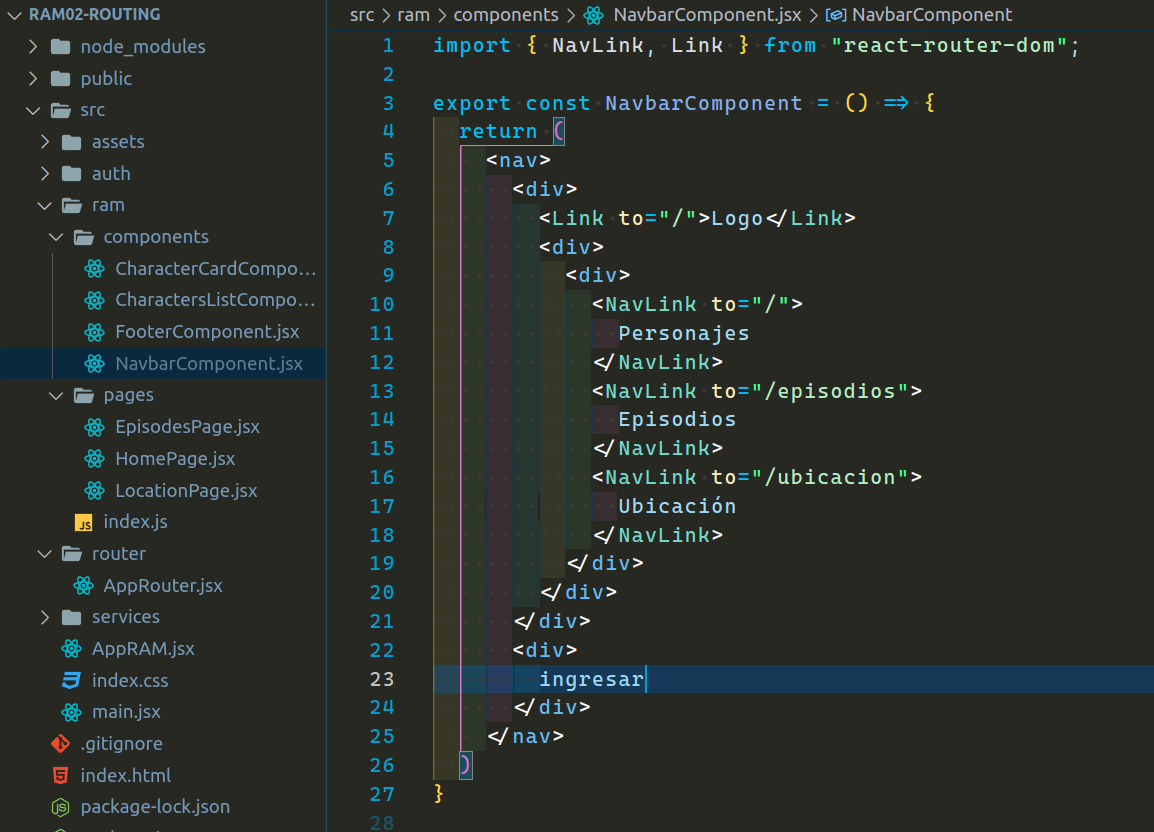
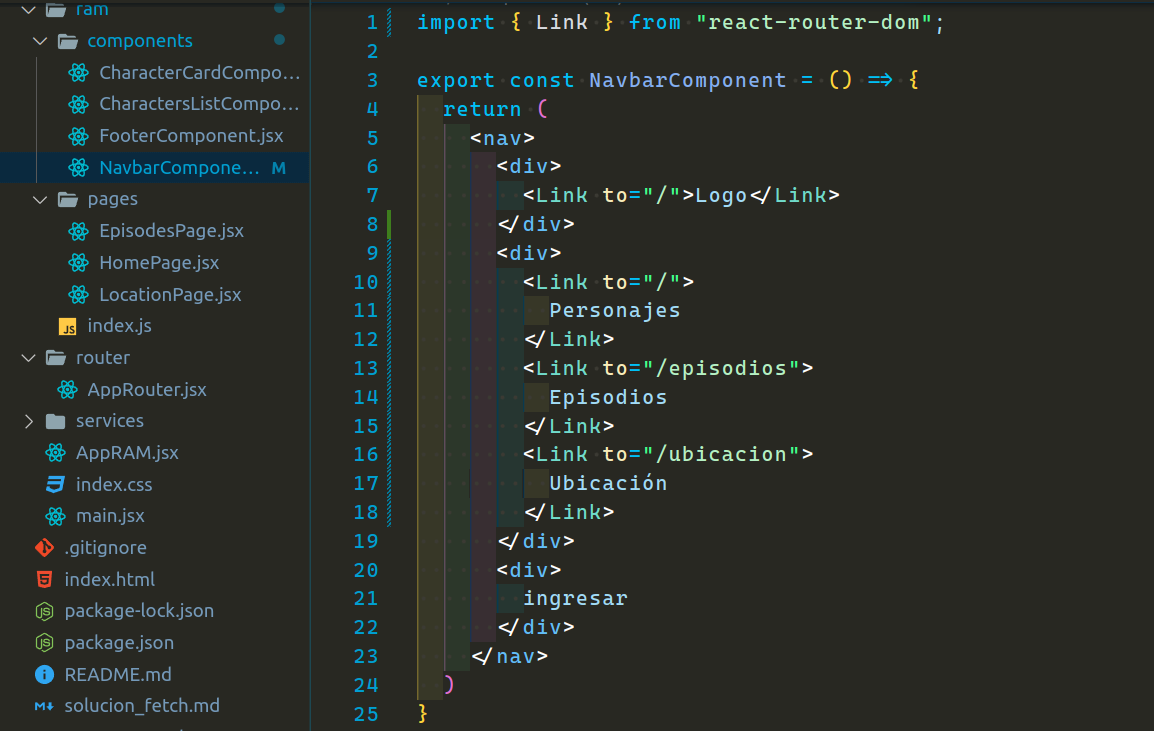
fixes

diff --git a/src/ram/components/NavbarComponent.jsx b/src/ram/components/NavbarComponent.jsx
@@ -1,27 +1,38 @@
-import { NavLink, Link } from "react-router-dom";
+import { Link, useLocation } from "react-router-dom";
 
 export const NavbarComponent = () => {
+  const location = useLocation();
+
   return (
     <nav>
       <div>
-        <Link to="/">Logo</Link>
-        <div>
-          <div>
-            <NavLink to="/">
-              Personajes
-            </NavLink>
-            <NavLink to="/episodios">
-              Episodios
-            </NavLink>
-            <NavLink to="/ubicacion">
-              Ubicación
-            </NavLink>
-          </div>
-        </div>
+        <Link to="/">
+          Logo
+        </Link>
+      </div>
+      <div>
+        <Link
+          to="/"
+          className={location.pathname === "/" ? "active" : ""}
+        >
+          Personajes
+        </Link>
+        <Link
+          to="/episodios"
+          className={location.pathname === "/episodios" ? "active" : ""}
+        >
+          Episodios
+        </Link>
+        <Link
+          to="/ubicacion"
+          className={location.pathname === "/ubicacion" ? "active" : ""}
+        >
+          Ubicación
+        </Link>
       </div>
       <div>
         ingresar
       </div>
     </nav>
-  )
-}
+  );
+};

diff --git a/src/index.css b/src/index.css
@@ -56,6 +56,11 @@ button:focus-visible {
   outline: 4px auto -webkit-focus-ring-color;
 }
 
+.active {
+  font-weight: bold;
+  color: red;
+}
+
 @media (prefers-color-scheme: light) {
   :root {
     color: #213547;

diff --git a/TUTORIAL.md b/TUTORIAL.md
@@ -128,29 +128,81 @@ Lo mismo pasaría con `http://localhost:3000/ubicacion`.
 
 ---
 
-# `NavLink & Link`
+# `Link`
 
 <a id="item4"></a>
 
-Como vimos anteriormente podíamos escribir un `URL` y navegar a algunas de tus rutas, esto no es muy perfomante. La idea es que podamos combinar nuestros componentes con estas rutas, es decir, que nosotros al hacer un clic en un componente, nos lleve hacia una ruta específica, como por ejemplo los items de nuestro navbar.
+Ya funcionando nuestras rutas ahora podríamos crear enlaces que al hacer un clic nos lleve a una ruta específica.
 
-Primero vamos a conocer dos métodos que nos trae `react-router-dom`. Estos son Link y NavLink.
+Primero vamos a conocer un método que nos trae `react-router-dom`. Este es el método Link, el cuál se utiliza para crear enlaces a diferentes rutas dentro de una aplicación de React.
 
 - Link: El componente link en React Router funciona a partir de su propiedad `to`. En esta propiedad, asignamos como valor el enlace a la página que queremos llevar. Por debajo de link hay un elemento a. Sin embargo, React browser Router lo envuelve de una manera en la que no se fuerce la petición al servidor. Por ello, el componente link nos permite mantener la navegación a nivel del browser o navegador.
 
-- NavLink: La diferencia principal es que el navLink, como su nombre indica, se usa principalmente para barras de navegación. Esto se debe a que nos va a dar una clase llamada «active» cuando el elemento haga match con el link en React. Es decir, podemos estilizar cómo se ve el elemento cuando esté seleccionado.
-
-Sabiendo esto, podríamos ya pensar que link podría encajar muy bien con el componente de nuestro logo, por ejemplo o bien con otros componentes fuera del navbar que quieran llevarme a una determinada ruta, como lo podría ser una página de contacto, que al hacer clic en "contactar", te dirija a esta página y ruta específica. Hagamos nuestro ejemplo con el logo e links de navegación.
+Veamos un ejemplo de cómo podríamos realizar enlaces a nuestras rutas ya implementadas desde el componente `NavbarComponent`:
 
 ![Context](./src/assets/img-12.png)
 
-Así es como se ve nuestro código. Pueden ver que el logo contiene el link que me va a dirigir a "inicio", lo mismo que hace el enlace "personajes", pero con una salvedad, que al ser un NavLink, nosotros podremos utilizar esa clase llamada active para dar unos estilos extras que ya veremos más adelante junto a boostrap.
+Podemos ver que el llamamos al componente `Link` 4 veces.
 
-Resultado:
+Primer llamado del componente Link de react-router-dom:
+
+```jsx
+<div>
+  <Link to="/">Logo</Link>
+</div>
+```
+
+En este fragmento de código, se crea un div que contiene un enlace (Link) con el texto "Logo". El atributo to="/" indica que el enlace dirige a la ruta principal de la aplicación.
+
+Resto de los componentes link:
+
+```jsx
+<div>
+  <Link to="/">Personajes</Link>
+  <Link to="/episodios">Episodios</Link>
+  <Link to="/ubicacion">Ubicación</Link>
+</div>
+```
+
+Aquí se crean tres enlaces más utilizando el componente Link. Cada enlace tiene un texto que representa una sección específica de la aplicación y un atributo to que indica la ruta a la que se dirige cada enlace.
+
+También dependiendo la estructura de estilos podría encerrar cada enlace en un `div` contendedor, por ejemplo, si desean aplicar estilos específicos a cada enlace o envolverlos en una estructura de cuadrícula.
+
+Ej:
+
+```jsx
+<div>
+  <div>
+    <Link to="/">Personajes</Link>
+  </div>
+  <div>
+    <Link to="/episodios">Episodios</Link>
+  </div>
+  <div>
+    <Link to="/ubicacion">Ubicación</Link>
+  </div>
+</div>
+```
+
+Yo por el momento lo dejaré como el primer ejemplo. Lo que si me gustaría añadir es resaltar visualmente el enlace activo en la barra de navegación, es decir, que al hacer un clic en uno de estos enlaces se le de ciertos estilos al mismo para resaltar como "enlace activo", agregando una clase de css que voy a llamar `active`.
+
+Antes de la versión 6 de react-router-dom se utilizaba un componente llamado `NavLink`, sin embargo, a partir de la v6+ el componente NavLink ha sido eliminado y no está disponible. En su lugar, podemos utilizar el componente Link como lo tenemos y agregar lógica para resaltar el enlace activo utilizando el enrutador `useLocation` proporcionado por react-router-dom.
+
+Cambiemos el código para ver cómo lograrlo:
 
 ![Context](./src/assets/img-13.png)
 
-Por ahora no se ve muy bonita nuestra app, pero al menos ya funciona. Con Leandro lo que buscamos es tratar de ir a un ritmo que no se frustren e ir conociendo las tecnologías lo más desglozado posible y que las entiendan para luego avanzar.
+En este ejemplo, utilizamos el hook useLocation de react-router-dom para obtener la ubicación actual. Comparamos `location.pathname` con la ruta de cada enlace y, si coinciden, agregamos la clase "active" al enlace mediante la propiedad className.
+
+Voy a agregar la clase `active` en el archivo `index.css` para comprobar que el código anterior esté funcionando:
+
+![Context](./src/assets/img-14.png)
+
+Resultado:
+
+![Context](./src/assets/img-15.png)
+
+Definitivamente el código está funcionando. La aplicación no se ve muy bonita hasta ahora, pero ya iremos mejorando la misma con las próximas unidades.
 
 ---
 
@@ -169,7 +221,7 @@ http://localhost:5173/perritofeliz
 
 Veamos eso:
 
-![Context](./src/assets/img-14.png)
+![Context](./src/assets/img-16.png)
 
 Podemos ver que nuestro enrutador no hace match con ninguna de nuestras rutas, por ende, nosotros podríamos crear una nueva página para manejar estos casos, y en caso de que nos llegue una URL que no haga match, mostrar un error, por ejemplo un 404 not found.
 
